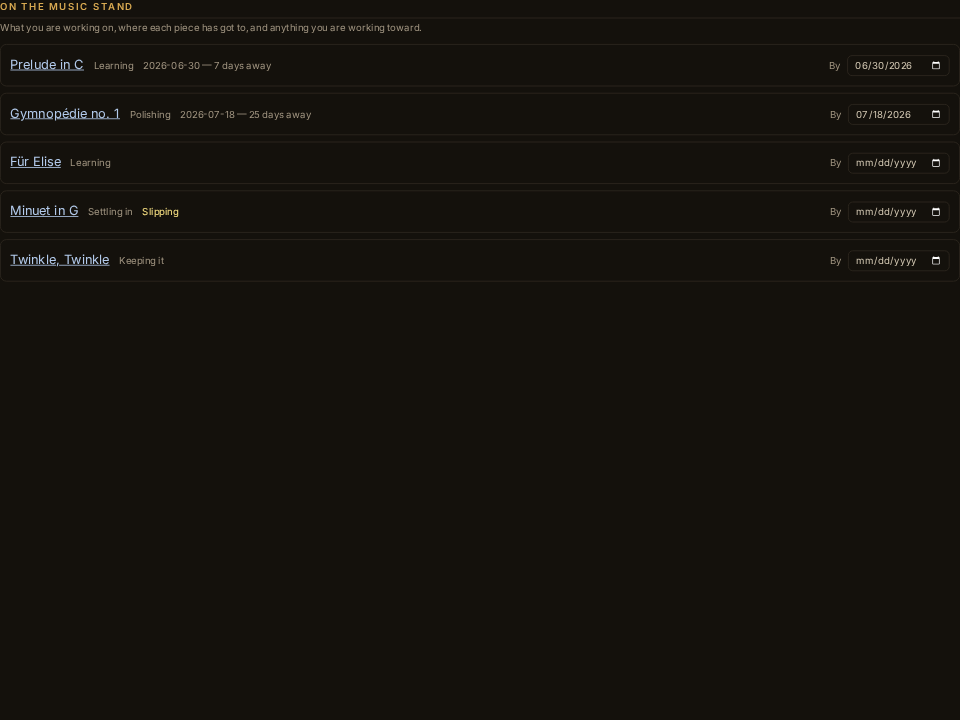
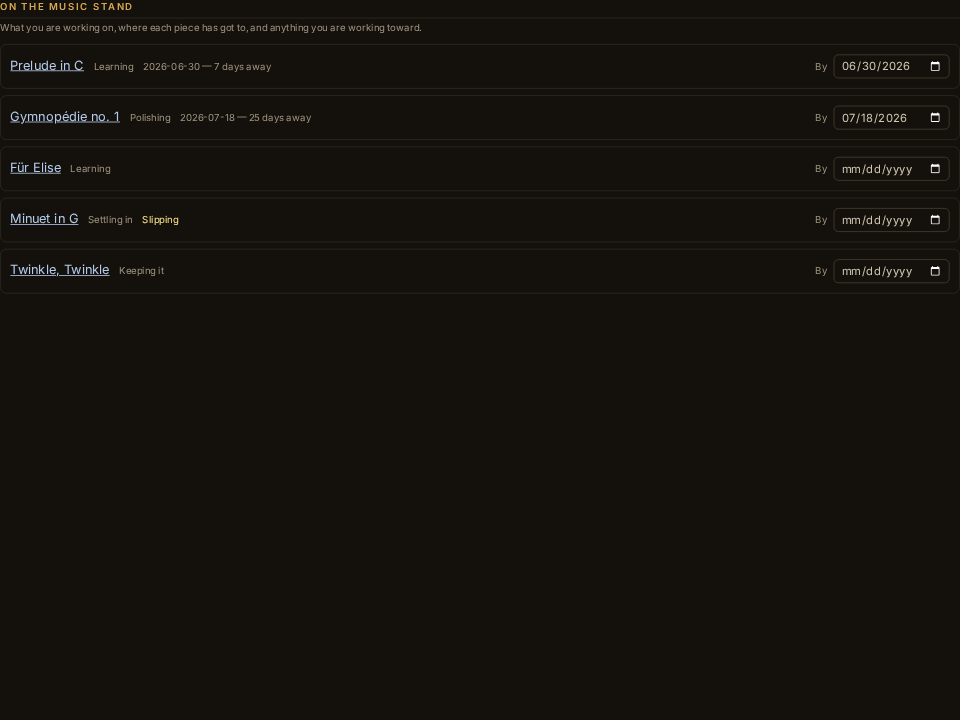
refactor(ui): the inputs and links that re-typed the constants
app/components/ui/classes.ts has defined the text input and the compact one since it was
written, and six call sites spelled their own anyway — two different border tokens and two
different grounds for the same box. They use the constants; a width is the only thing a
caller adds.

A link inside a list row was `text-accent hover:underline` in three files and
`text-accent-strong hover:underline` in three others: one rule for whether it underlines
at rest, two colours for the same link. One colour now — the token whose name says it is
a link.

diff --git a/app/components/features/practiceReport.tsx b/app/components/features/practiceReport.tsx
@@ -24,7 +24,7 @@ import { m } from "../../paraglide/messages.js";
 import { Button } from "../ui/button";
 import { Disclosure } from "../ui/disclosure";
 import { SegmentedControl } from "../ui/segmentedControl";
-import { sectionHeadingClasses } from "../ui/classes";
+import { compactFieldClasses, sectionHeadingClasses } from "../ui/classes";
 
 // The practice diary, rolled up. How long, on which days, and what it felt like —
 // the retrospective a player keeps for themselves and the summary a teacher asks
@@ -196,7 +196,7 @@ function BackLogForm({ now }: { now: Date }) {
                         value={date}
                         max={todayKey(now)}
                         onChange={(event) => setDate(event.target.value)}
-                        className="rounded-md border border-line bg-surface px-2 py-1 text-body"
+                        className={compactFieldClasses}
                     />
                 </label>
                 <label className="space-y-1 text-sm">
@@ -208,7 +208,7 @@ function BackLogForm({ now }: { now: Date }) {
                         max={MAX_MANUAL_MINUTES}
                         value={minutes}
                         onChange={(event) => setMinutes(event.target.value)}
-                        className="w-24 rounded-md border border-line bg-surface px-2 py-1 text-body"
+                        className={`w-24 ${compactFieldClasses}`}
                     />
                 </label>
             </div>
@@ -219,7 +219,7 @@ function BackLogForm({ now }: { now: Date }) {
                     value={label}
                     maxLength={MAX_LABEL_LENGTH}
                     onChange={(event) => setLabel(event.target.value)}
-                    className="w-full rounded-md border border-line bg-surface px-2 py-1 text-body"
+                    className={`w-full ${compactFieldClasses}`}
                 />
             </label>
             <Button onClick={submit}>{m.practice_add_action()}</Button>

diff --git a/app/components/features/repertoirePanel.tsx b/app/components/features/repertoirePanel.tsx
@@ -9,7 +9,7 @@ import { useMasteryStore } from "../../contexts/services";
 import { useStoreVersion } from "../../hooks/useStoreVersion";
 import type { GradedMastery } from "../../lib/gradeProgress";
 import { m } from "../../paraglide/messages.js";
-import { linkClasses, sectionHeadingClasses } from "../ui/classes";
+import { compactFieldClasses, linkClasses, sectionHeadingClasses } from "../ui/classes";
 import { LocalizedLink as Link } from "../ui/localizedLink";
 
 // What is on the music stand: the pieces being worked on, where each one has got to,
@@ -92,7 +92,7 @@ export function RepertoirePanel({ items, now }: { items: GradedMastery[]; now: D
                                         ),
                                     )
                                 }
-                                className="rounded-md border border-line bg-surface px-2 py-1 text-body"
+                                className={compactFieldClasses}
                             />
                         </label>
                     </li>

diff --git a/app/components/features/assignmentBuilder.tsx b/app/components/features/assignmentBuilder.tsx
@@ -7,7 +7,7 @@ import type { AssignmentDraft } from "../../hooks/useAssignmentDraft";
 import { useDragReorder } from "../../hooks/useDragReorder";
 import { m } from "../../paraglide/messages.js";
 import { Button, IconButton } from "../ui/button";
-import { compactFieldClasses as FIELD } from "../ui/classes";
+import { compactFieldClasses, compactFieldClasses as FIELD } from "../ui/classes";
 import { ArrowDownIcon, ArrowUpIcon, CloseIcon } from "../ui/icons";
 import { Show } from "./conditional";
 
@@ -237,7 +237,7 @@ export function AssignmentBuilder({
                         type="date"
                         value={draft.dueOn}
                         onChange={(event) => draft.setDueOn(event.target.value)}
-                        className="rounded-md border border-line bg-surface px-2 py-1 text-body"
+                        className={compactFieldClasses}
                     />
                     <span className="text-xs">{m.assignments_due_hint()}</span>
                 </label>

diff --git a/app/components/features/reportBack.tsx b/app/components/features/reportBack.tsx
@@ -9,6 +9,7 @@ import { useMasteryStore } from "../../contexts/services";
 import { m } from "../../paraglide/messages.js";
 import { Button } from "../ui/button";
 import { Disclosure } from "../ui/disclosure";
+import { fieldClasses } from "../ui/classes";
 
 // Handing an assignment back to whoever set it. The student types a name, and the
 // device turns what it knows about the list into one code to paste into a message.
@@ -61,7 +62,7 @@ export function ReportBack({ assignment }: { assignment: Assignment }) {
                             // older one on screen looking current.
                             setCode(null);
                         }}
-                        className="w-full rounded-lg border border-line-strong px-3 py-2 text-sm dark:bg-raised"
+                        className={`w-full ${fieldClasses}`}
                     />
                 </label>
                 <Button variant="secondary" onClick={make} disabled={who.trim().length === 0}>

diff --git a/app/components/features/libraryRow.tsx b/app/components/features/libraryRow.tsx
@@ -79,7 +79,7 @@ export function LibraryRow({
                         (personSlug(item.composer) ? (
                             <Link
                                 to={`/person/${personSlug(item.composer)}`}
-                                className="relative z-10 block w-fit max-w-full truncate text-xs text-muted hover:text-accent hover:underline"
+                                className="relative z-10 block w-fit max-w-full truncate text-xs text-muted hover:text-accent-strong hover:underline"
                             >
                                 {canonicalComposer(item.composer)}
                             </Link>

diff --git a/app/routes/play.tsx b/app/routes/play.tsx
@@ -112,7 +112,7 @@ export default function PlayRoute({ params }: Route.ComponentProps) {
                                 {personSlug(score.composer) ? (
                                     <Link
                                         to={`/person/${personSlug(score.composer)}`}
-                                        className="hover:text-accent hover:underline"
+                                        className="hover:text-accent-strong hover:underline"
                                     >
                                         {canonicalComposer(score.composer)}
                                     </Link>

diff --git a/app/routes/person.tsx b/app/routes/person.tsx
@@ -165,7 +165,10 @@ export default function PersonPage() {
                 !loading && (
                     <p className="text-sm text-muted">
                         {m.person_empty()}{" "}
-                        <Link to="/library" className="font-medium text-accent hover:underline">
+                        <Link
+                            to="/library"
+                            className="font-medium text-accent-strong hover:underline"
+                        >
                             {m.nav_music()}
                         </Link>
                     </p>
